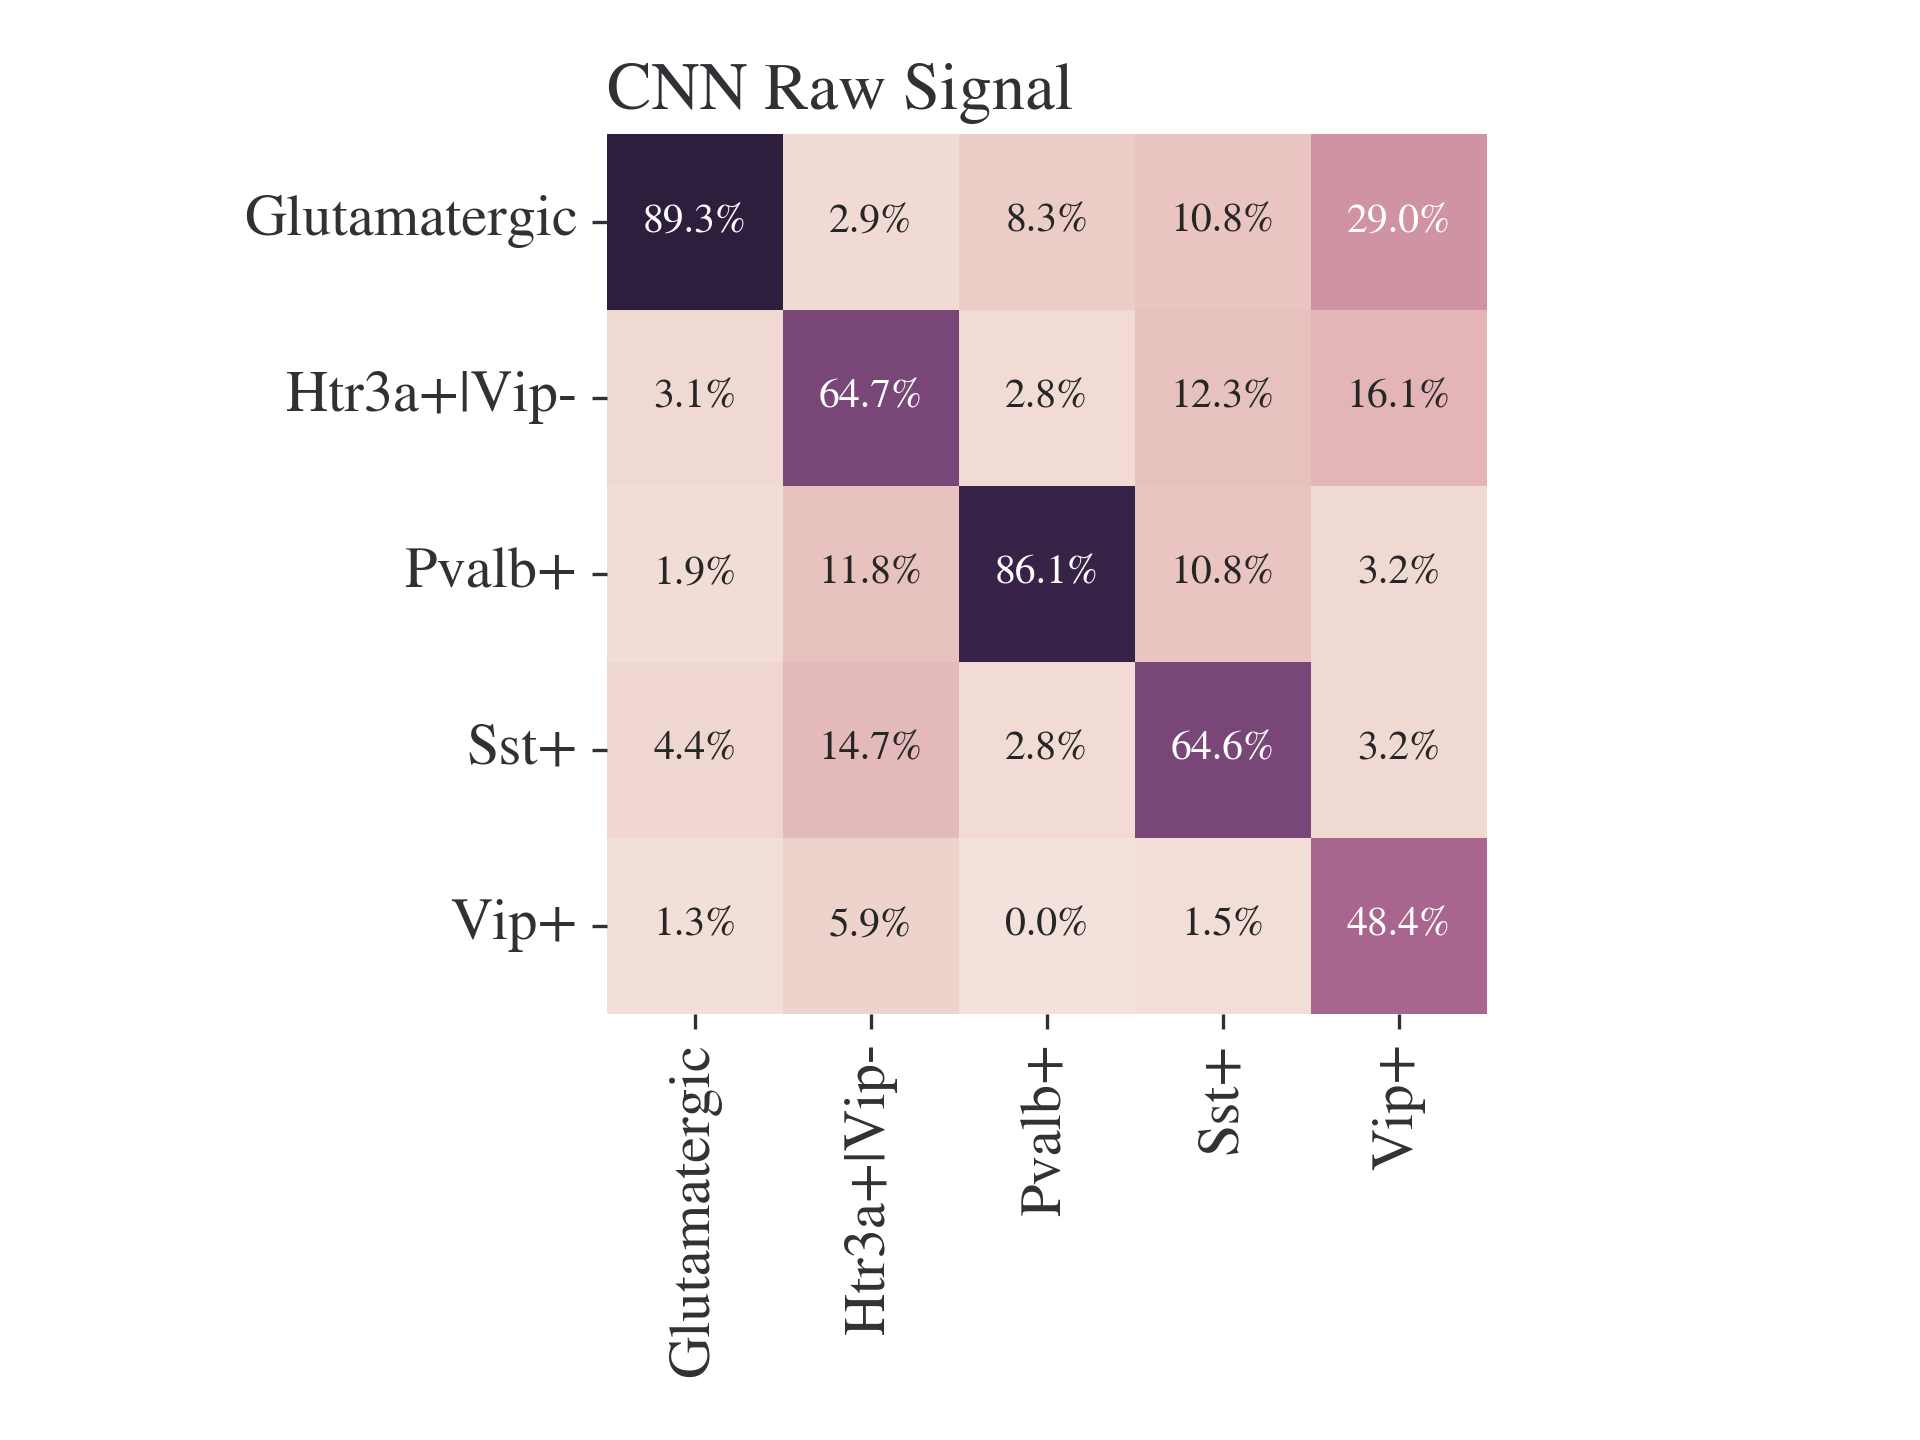
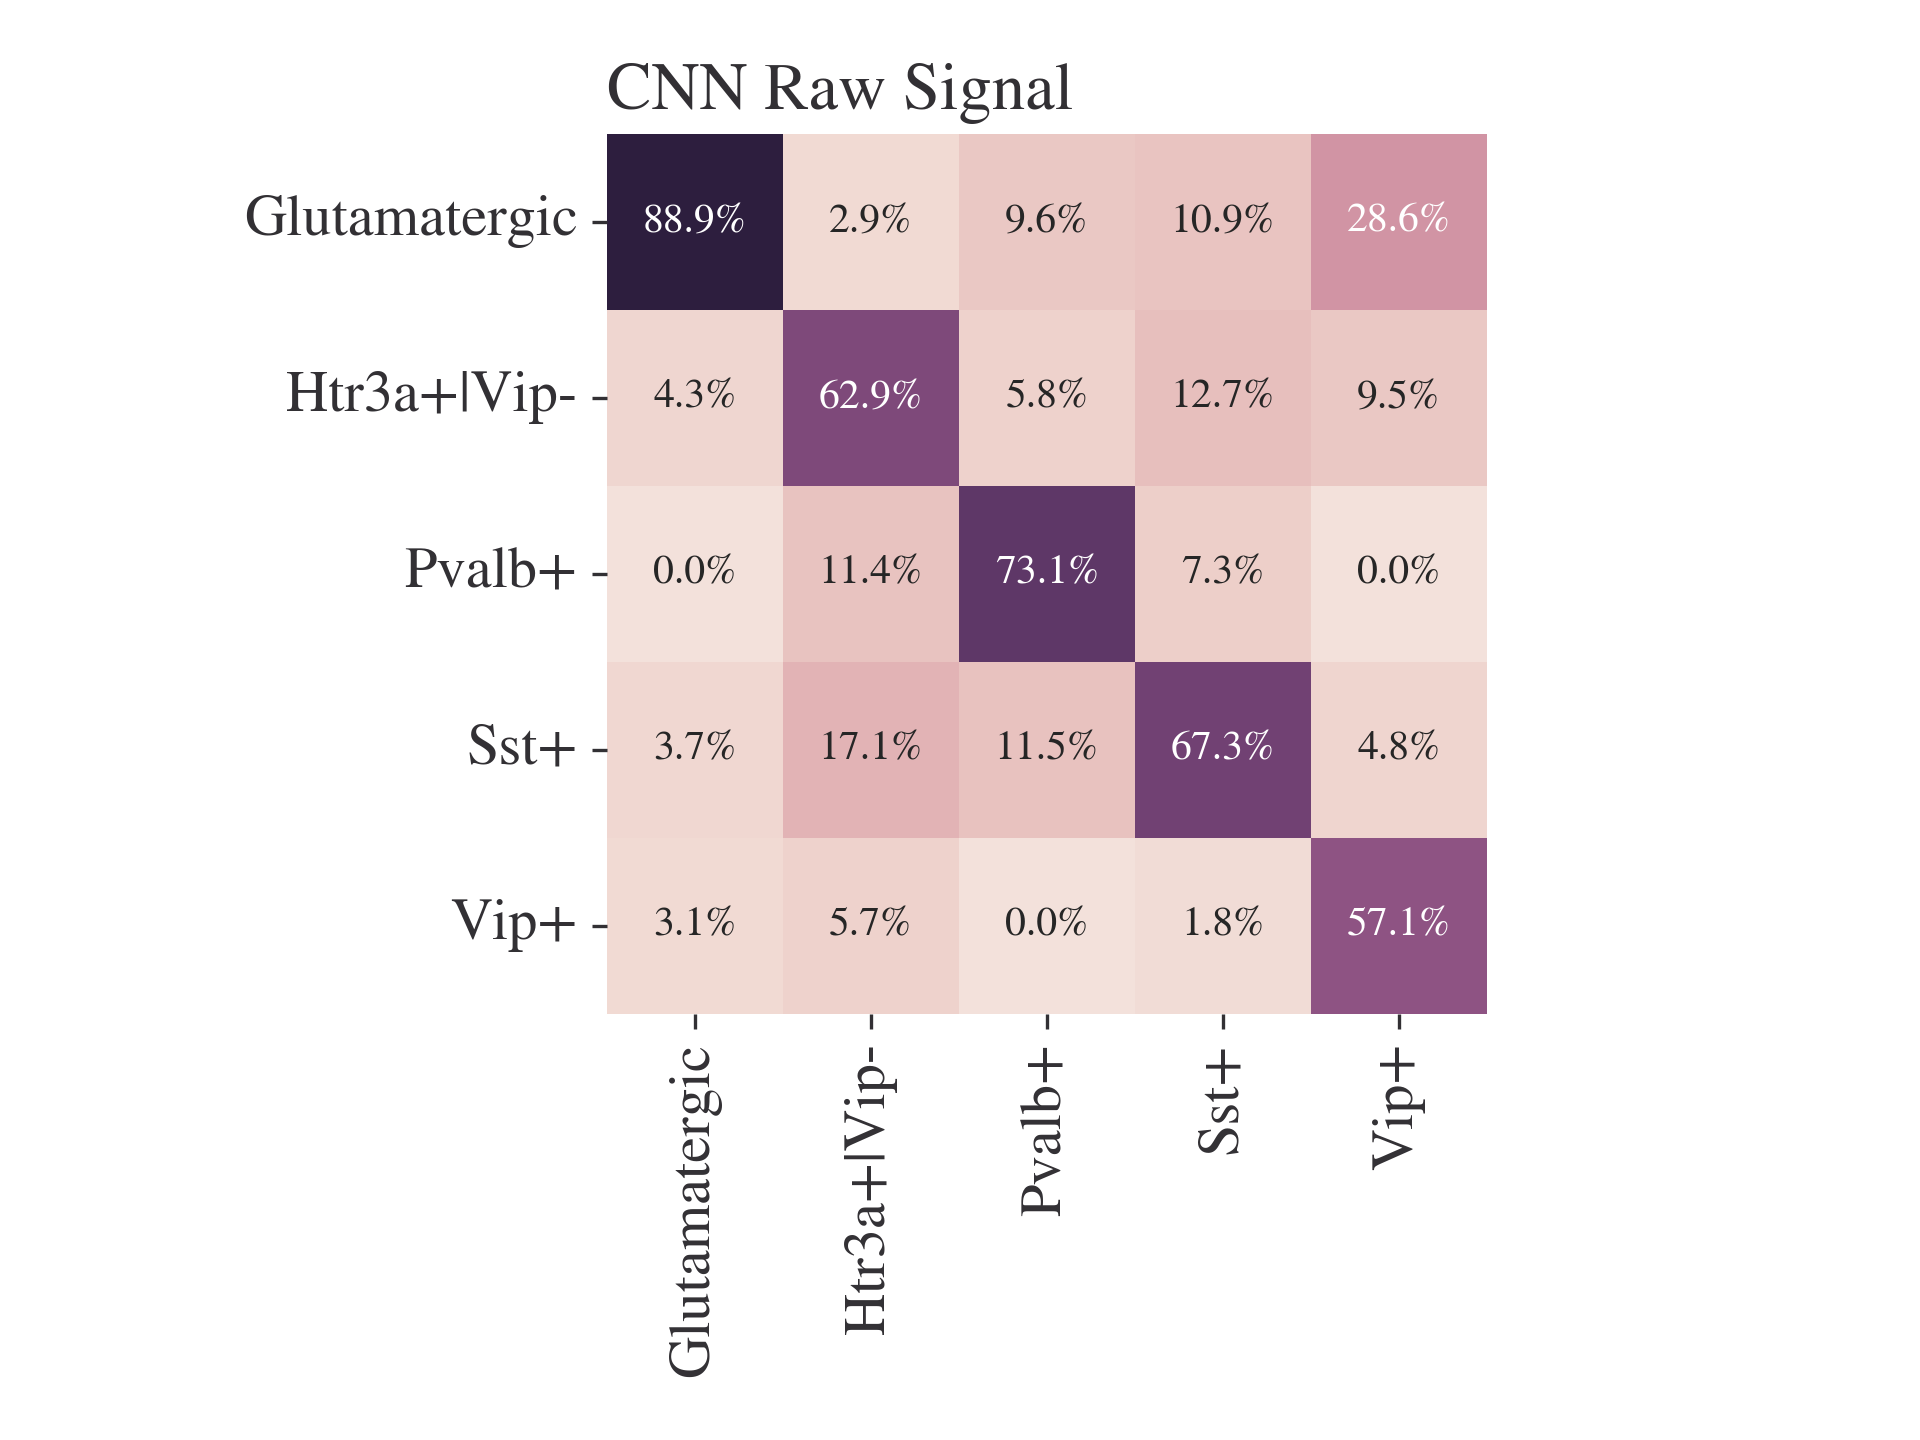
results for raw signal with cnn classification alone, 77.8% accuracy

diff --git a/single_spike_time.py b/single_spike_time.py
@@ -13,6 +13,7 @@ from sklearn.model_selection import train_test_split
 from sklearn.utils.class_weight import compute_class_weight
 from sklearn.metrics import confusion_matrix
 from keras.utils.np_utils import to_categorical
+from helper_functions import calculate_metrics_multiclass
 
 from gpu_check import get_device
 import warnings
@@ -34,7 +35,7 @@ class TimeAnalyzer:
     def __init__(self) -> None:
         self.x_train, self.x_test, self.y_train, self.y_test = self.process_data()
         self.model, self.best_model = self.create_model(), None
-        self.history = None
+        self.history, self.best_history = None, None
 
     @staticmethod
     def process_data(test_size: float = 0.2):
@@ -45,6 +46,7 @@ class TimeAnalyzer:
         # TODO change to interpolation
         for idx, directory in enumerate(directories):
             files = glob(data_path + directory + '/*')
+            files = sorted(files)
             arrays = [np.load(f) for f in files]
             for array in arrays:
                 if len(array) == 600:
@@ -101,7 +103,7 @@ class TimeAnalyzer:
 
         return Model(inputs=inputs, outputs=outputs)
 
-    def train_and_test(self, optimizer: str = 'adam', batch_size: int = 16,
+    def train(self, optimizer: str = 'adam', batch_size: int = 16,
                        epochs: int = 50):
         # compile the model
         self.model.compile(optimizer=optimizer,
@@ -110,12 +112,13 @@ class TimeAnalyzer:
 
         # create checkpoint so that the best epoch is saved
         checkpoint_filepath = '/tmp/checkpoint'
-        model_checkpoint_callback = tf.keras.callbacks.ModelCheckpoint(
+        checkpoint = tf.keras.callbacks.ModelCheckpoint(
             filepath=checkpoint_filepath,
             save_weights_only=True,
             monitor='val_accuracy',
             mode='max',
             save_best_only=True)
+        early_stopping = tf.keras.callbacks.EarlyStopping(monitor='val_loss', min_delta=0.00001, patience=15)
 
         # compute class weight
         y_integers = np.argmax(self.y_train, axis=1)
@@ -124,9 +127,9 @@ class TimeAnalyzer:
 
         # fit the model
         history = self.model.fit(x=self.x_train, y=self.y_train,
-                                      batch_size=batch_size, epochs=epochs,
-                                      validation_data=(self.x_test, self.y_test), shuffle=True,
-                                      callbacks=[model_checkpoint_callback], class_weight=d_class_weights, verbose=0)
+                                 batch_size=batch_size, epochs=epochs,
+                                 validation_data=(self.x_test, self.y_test), shuffle=True,
+                                 callbacks=[checkpoint, early_stopping], class_weight=d_class_weights, verbose=0)
 
         # The best model weights are loaded into the model
         self.model.load_weights(checkpoint_filepath)
@@ -135,6 +138,7 @@ class TimeAnalyzer:
     def callback(self, study, trial):
         if study.best_trial == trial:
             self.best_model = self.model
+            self.best_history = self.history
 
     def objective(self, trial):
         n_filters = trial.suggest_categorical("n_filters", ([64, 64, 64],
@@ -164,8 +168,12 @@ class TimeAnalyzer:
                                        pool_size=pool_size,
                                        activation=activation)
 
-        history = self.train_and_test(optimizer=optimizer, batch_size=batch_size, epochs=epochs)
-        return max(history.history['val_accuracy'])
+        self.history = self.train(optimizer=optimizer, batch_size=batch_size, epochs=epochs)
+        y_pred_proba = self.model.predict(x=self.x_test, verbose=0)
+        y_pred = np.argmax(y_pred_proba, axis=1)
+        y_true = np.argmax(self.y_test, axis=1)
+        accuracy, f1, precision, recall, roc_auc = calculate_metrics_multiclass(y_true, y_pred, y_pred_proba)
+        return f1
 
     def optimize(self, n_trials: int, n_jobs: int = 1):
         study = optuna.create_study(study_name='1dconv_time', direction='maximize')
@@ -182,7 +190,10 @@ class TimeAnalyzer:
         best_batch_size = study.best_params['batch_size']
         best_epochs = study.best_params['epochs']
 
-        results = self.best_model.evaluate(x=self.x_test, y=self.y_test, verbose=2)
+        y_pred_proba = self.best_model.predict(x=self.x_test, verbose=0)
+        y_pred = np.argmax(y_pred_proba, axis=1)
+        y_true = np.argmax(self.y_test, axis=1)
+        accuracy, f1, precision, recall, roc_auc = calculate_metrics_multiclass(y_true, y_pred, y_pred_proba)
 
         print("********* Trial Finished *********")
         print("best_n_filters: {}".format(best_n_filters))
@@ -210,25 +221,23 @@ class TimeAnalyzer:
                 "best_optimizer: {}\n"
                 "best_batch_size: {}\n"
                 "best_epochs: {}\n"
-                "Validation loss: {}\n"
-                "Validation accuracy: {}".format(best_n_filters, best_n_units, best_n_conv1d_layers,
+                "Test accuracy: {}\n"
+                "Test f1: {}\n"
+                "Test precision: {}\n"
+                "Test recall: {}\n"
+                "Test roc auc: {}".format(best_n_filters, best_n_units, best_n_conv1d_layers,
                                                  best_n_dense_layers, best_kernel_size, best_stride_size,
                                                  best_pool_size, best_activation, best_optimizer, best_batch_size,
-                                                 best_epochs, results[0], results[1]))
+                                                 best_epochs, accuracy, f1, precision, recall, roc_auc))
 
-    def plot_results(self):
-        # plot the confusion matrix
-        y_pred = np.argmax(self.best_model.predict(self.x_test), axis=1)
-        y_true = np.argmax(self.y_test, axis=1)
-
+    @staticmethod
+    def plot_cm(y_pred, y_true):
         def reverse_labels(tup: tuple) -> list:
             return [class_names[x] for x in tup]
 
         y_true_labeled, y_pred_labeled = reverse_labels(tuple(y_true)), reverse_labels(tuple(y_pred))
         matrix = confusion_matrix(y_true_labeled, y_pred_labeled)
         df_cm = pd.DataFrame(matrix, columns=np.unique(y_true_labeled), index=np.unique(y_true_labeled))
-        # df_cm.index.name = 'Actual'
-        # df_cm.columns.name = 'Predicted'
         plt.figure()
         cmap = sns.cubehelix_palette(light=0.9, as_cmap=True)
         cm_normalized = df_cm.div(df_cm.sum(axis=0), axis=1)
@@ -246,12 +255,64 @@ class TimeAnalyzer:
         """
         self.best_model.save(filepath=results_path + '/model')
 
+    def load_model(self) -> None:
+        """
+        load the best model from path.
+        """
+        self.best_model = tf.keras.models.load_model(filepath=results_path + '/model')
+
+    def plot_history(self) -> None:
+        plt.figure(2)
+        plt.plot(self.best_history.history['accuracy'])
+        plt.plot(self.best_history.history['val_accuracy'])
+        plt.title('Accuracy vs. Epoch')
+        plt.ylabel('Accuracy')
+        plt.xlabel('Epoch')
+        plt.legend(['train acc', 'val acc'], loc='upper left')
+        plt.draw()
+        plt.savefig(results_path + "/accuracy_epoch.png")
+        plt.show()
+
+        plt.figure(3)
+        plt.plot(self.best_history.history['loss'])
+        plt.plot(self.best_history.history['val_loss'])
+        plt.title('Loss vs. Epoch')
+        plt.ylabel('Loss')
+        plt.xlabel('Epoch')
+        plt.legend(['train loss', 'val loss'], loc='upper left')
+        plt.draw()
+        plt.savefig(results_path + "/loss_epoch.png")
+        plt.show()
+
+
+def train_model():
+    model = TimeAnalyzer()
+    model.optimize(n_trials=100)
+    y_pred_proba = model.best_model.predict(x=model.x_test,  verbose=0)
+    y_pred = np.argmax(y_pred_proba, axis=1)
+    y_true = np.argmax(model.y_test, axis=1)
+    accuracy, f1, precision, recall, roc_auc = calculate_metrics_multiclass(y_true, y_pred, y_pred_proba)
+    print("Accuracy: {}\nF1: {}\nPrecision: {}\nRecall: {}\nAUC: {}".format(accuracy, f1, precision, recall, roc_auc))
+    model.plot_cm(y_pred, y_true)
+    model.plot_history()
+    model.save_model()
+
+
+def test_model():
+    model = TimeAnalyzer()
+    model.load_model()
+    model.best_model.summary()
+    y_pred_proba = model.best_model.predict(x=model.x_test,  verbose=0)
+    y_pred = np.argmax(y_pred_proba, axis=1)
+    y_true = np.argmax(model.y_test, axis=1)
+    accuracy, f1, precision, recall, roc_auc = calculate_metrics_multiclass(y_true, y_pred, y_pred_proba)
+    print("Accuracy: {}\nF1: {}\nPrecision: {}\nRecall: {}\nAUC: {}".format(accuracy, f1, precision, recall, roc_auc))
+    model.plot_cm(y_pred, y_true)
+
 
 def main():
-    model = TimeAnalyzer()
-    model.optimize(n_trials=50)
-    model.plot_results()
-    model.save_model()
+    train_model()
+    test_model()
 
 
 if __name__ == '__main__':
